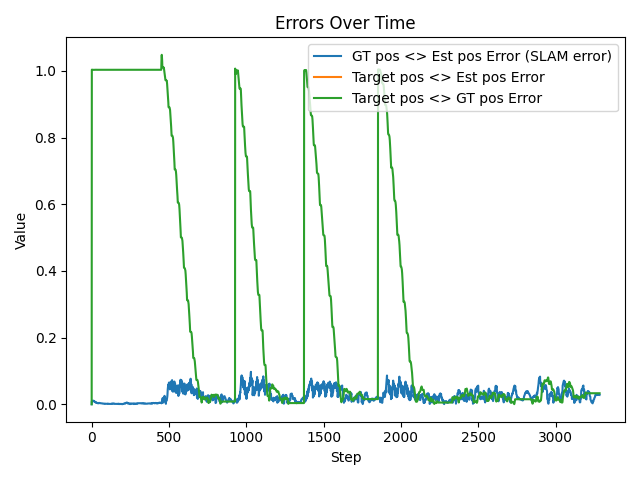
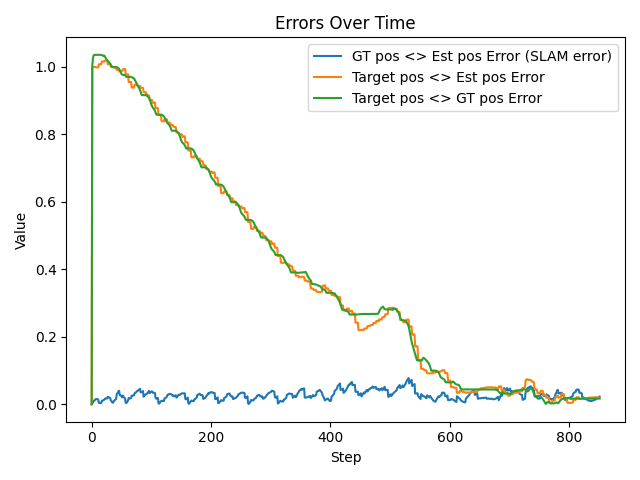
update step

diff --git a/source/ros2/isaac-ros/g1_standalone_v2_14dof_nav_heuristic_test_step.py b/source/ros2/isaac-ros/g1_standalone_v2_14dof_nav_heuristic_test_step.py
@@ -9,6 +9,7 @@
 from utils import *
 from scipy.spatial.transform import Rotation as R
 from scipy.spatial.transform import Slerp
+from tf_transformations import quaternion_matrix, translation_matrix, concatenate_matrices, inverse_matrix, quaternion_from_matrix
 from icecream import ic
 from isaacsim import SimulationApp
 
@@ -246,7 +247,7 @@ parser.add_argument("--rendering_dt", type=float, default=1/100, help="Rendering
 parser.add_argument("--policy-path", type=str, default="source/ros2/isaac-ros/assets/0820_f5/exported/policy.pt", help="Path to the policy file")
 parser.add_argument("--nav-policy-path", type=str, default="/workspace/isaaclab/source/ros2/isaac-ros/assets/weights/navigation/navigation_policy_0623.pt", help="Path to the policy file")
 parser.add_argument("--action-scale", type=float, default=0.5, help="Scale for the action commands")
-parser.add_argument("--period", type=float, default=0.8, help="Phase command period")
+parser.add_argument("--period", type=float, default=1.0, help="Phase command period")
 
 args = parser.parse_args()
 
@@ -589,9 +590,9 @@ heading_error_bs = np.zeros((1,1))
 midsole_diffs = []
 pelvis_diffs = []
 lidar_diffs = []
-
+joint_pelvis_trajs = []
 # =============================== Hyper-parameters ===============================
-free_iter = 2000
+free_iter = 400
 
 # heading_target = -math.pi
 LAST_ITER = 32000
@@ -639,12 +640,22 @@ SLOW_BOUND = 0.4
 MAX_LIN_VEL = 0.15
 MAX_ANG_VEL = 0.3
 NAV_HZ = 5
-ERROR_THRESHOLD = 0.04  # m
-NUM_AVG = 30
+ERROR_THRESHOLD = 0.02  # m
+NUM_AVG = 50
+
+single_step_duration = False
+single_step_iter = 0
+
+left_foot_moment = False
+right_foot_moment = True
+
 # =============================== Main iteration ===============================
 is_first_released = False
+its_end = False
+
 print_simtime = 0
 while simulation_app.is_running():
+
 
     simtime = sim_context.current_time
     if int(simtime) != print_simtime:
@@ -692,6 +703,8 @@ while simulation_app.is_running():
 
     # imu rate 50Hz
     if ( current_iter % 4 == 0 and is_first_released ) and est_pelvis_pos is not None and est_pelvis_quat is not None:
+        if single_step_duration:
+            single_step_iter += 1
         # Iterate over the target poses
         heading_target = target_pose_list[current_target_pose_idx][3].copy()
         target_pos_w = target_pose_list[current_target_pose_idx][:3].copy()
@@ -778,15 +791,82 @@ while simulation_app.is_running():
                 errors_per_pose[current_target_pose_idx][1].append(round(task_y_errors[-1][0], 4))
                 errors_per_pose[current_target_pose_idx][1].append((4000 - time_per_pose) * 0.02)  # time taken
                 time_per_pose = 0
-                stop_counter = 100
+                stop_counter = 50
                 # pos_command_bs = np.zeros((1,1))
                 # heading_error_bs = np.zeros((1,1))
+                its_end = True
 
-        if stop_counter > 0:
-            stop_counter -= 1
-            vel_command_b = np.zeros(3)
-            phase = 0.0
+        if current_iter % int(200/NAV_HZ) ==0:
+            vel_command_b[:2] = np.clip(np.sign(pos_command_b[:2]) * MAX_LIN_VEL * np.sqrt(np.abs(pos_command_b[:2] / SLOW_BOUND)), -MAX_LIN_VEL, MAX_LIN_VEL)
+            vel_command_b[2] = np.clip(np.sign(heading_error) * MAX_ANG_VEL * np.sqrt(np.abs(heading_error / SLOW_BOUND)), -MAX_ANG_VEL, MAX_ANG_VEL)
+
+        if pos_command_bs[-1, :].reshape((1,)) < 0.4 and single_step_duration == False:
+            single_step_duration = True
+            print("===== Single step phase start =====")
+            single_step_iter = 0
+
+
+        if prev_action is None:
+            prev_action = np.zeros(14)
+
+        if single_step_duration == True:
             sin_p, cos_p = 0.0, 1.0
+            vel_command_b = np.zeros(3)
+            def pos_quat_to_matrix(pos, quat):
+                """
+                quat : wxyz
+                """
+                t = translation_matrix([pos[0], pos[1], pos[2]])
+                q = [quat[1], quat[2], quat[3], quat[0]] # wxyz -> xyzw
+                r = quaternion_matrix(q) # xyzw
+                return concatenate_matrices(t, r)
+
+            base_mat_w = pos_quat_to_matrix(base_pos, base_quat)
+            base_mat_w_inv = inverse_matrix(base_mat_w)
+            l_mat_w = pos_quat_to_matrix(l_pos, l_quat)
+            r_mat_w = pos_quat_to_matrix(r_pos, r_quat)
+            l_mat_b = np.dot(base_mat_w_inv, l_mat_w)
+            r_mat_b = np.dot(base_mat_w_inv, r_mat_w)
+            l_trans = l_mat_b[:3, 3]
+            r_trans = r_mat_b[:3, 3]
+
+
+            if left_foot_moment:
+                step_start_iter = 40 # 0.8
+            elif right_foot_moment:
+                step_start_iter = 15 # 0.3
+
+            if single_step_iter >= step_start_iter:
+                if left_foot_moment:
+                    print("Left step")
+                elif right_foot_moment:
+                    print("Right step")
+                print(single_step_iter)
+                phase = ((single_step_iter * 0.02) % args.period) / args.period
+                print(phase)
+                print()
+                sin_p, cos_p = np.sin(2*np.pi*phase), np.cos(2*np.pi*phase)
+                vel_command_b[:2] = np.clip(np.sign(pos_command_b[:2]) * 0.2 * np.sqrt(np.abs(pos_command_b[:2] / SLOW_BOUND)), -0.2, 0.2)
+                vel_command_b[2] = np.clip(np.sign(heading_error) * MAX_ANG_VEL * np.sqrt(np.abs(heading_error / SLOW_BOUND)), -MAX_ANG_VEL, MAX_ANG_VEL)
+            if single_step_iter == step_start_iter + 74:
+                print("===== Single step phase end =====")
+                # if r_trans[0] - l_trans[0] > 0.1:
+                #     left_foot_moment = True
+                #     right_foot_moment = False
+                # else:
+                left_foot_moment = not left_foot_moment
+                right_foot_moment = not right_foot_moment
+                
+                # if left_foot_moment:
+                #     step_start_iter = 40
+                # elif right_foot_moment:
+                #     step_start_iter = 15
+                single_step_iter = step_start_iter - 25
+
+        if stop_counter >= 0 and its_end:
+            sin_p, cos_p = 0.0, 1.0
+            vel_command_b = np.zeros(3)
+            stop_counter -= 1
 
             pos_error = round(task_translation_errors[-1][0], 4)
             ori_error = round(task_orientation_errors[-1][0], 4)
@@ -794,37 +874,11 @@ while simulation_app.is_running():
             errors_per_pose[current_target_pose_idx][1][1] = ori_error
             errors_per_pose[current_target_pose_idx][1][2] = round(task_x_errors[-1][0], 4)
             errors_per_pose[current_target_pose_idx][1][3] = round(task_y_errors[-1][0], 4)
-            pos_command_bs = np.zeros((1,1))
-            heading_error_bs = np.zeros((1,1))
+        if stop_counter < 0:
+            sin_p, cos_p = 0.0, 1.0
+            vel_command_b = np.zeros(3)
+            current_iter = LAST_ITER   # break the loop after this
 
-        if time_per_pose <= 0 and stop_counter <= 0:
-            time_per_pose = 4000
-            current_target_pose_idx += 1
-            if current_target_pose_idx >= len(target_pose_list):
-                current_iter = LAST_ITER
-        time_per_pose -= 1
-
-        # Navigation
-        if current_iter % int(200/NAV_HZ) ==0:
-            # vel_command_b[:2] = np.clip(np.sign(pos_command_b[:2]) * MAX_LIN_VEL * np.sqrt(np.abs(pos_command_b[:2] / SLOW_BOUND)), -MAX_LIN_VEL, MAX_LIN_VEL)
-            # X > 0
-            if pos_command_b[0] >= 0.:
-                vel_command_b[0] = np.clip(MAX_LIN_VEL * np.sqrt(np.abs(pos_command_b[0] / SLOW_BOUND)), 0.0, MAX_LIN_VEL)
-            # X < 0
-            if pos_command_b[0] < 0.:
-                vel_command_b[0] = np.clip(-0.2 * np.sqrt(np.abs(pos_command_b[0] / SLOW_BOUND)), -0.2, 0.0)
-            # Y > 0
-            if pos_command_b[1] >= 0.:
-                vel_command_b[1] = np.clip(MAX_LIN_VEL * np.sqrt(np.abs(pos_command_b[1] / SLOW_BOUND)), 0.0, MAX_LIN_VEL)
-            # Y < 0
-            if pos_command_b[1] < 0.:
-                vel_command_b[1] = np.clip(-MAX_LIN_VEL * np.sqrt(np.abs(pos_command_b[1] / SLOW_BOUND)), -MAX_LIN_VEL, 0.0)
-            
-            vel_command_b[2] = np.clip(np.sign(heading_error) * MAX_ANG_VEL * np.sqrt(np.abs(heading_error / SLOW_BOUND)), -MAX_ANG_VEL, MAX_ANG_VEL)
-
-        if prev_action is None:
-            prev_action = np.zeros(14)
-        
         obs = np.concatenate([
             base_ang_vel_b,
             gravity_ori,
@@ -847,10 +901,22 @@ while simulation_app.is_running():
 
         prev_action = action.copy()
 
+        # if sin_p == 0. and cos_p == 1. and np.linalg.norm(linear_velocities) < 0.05:
+        #     print("stop pose logged")
+        #     joint_positions = av.get_joint_positions()
+
+        #     joint_pelvis_trajs.append({
+        #         "joint_pos" : joint_positions,
+        #         "base_quat" : base_quat,
+        #         "base_pos" : base_pos
+        #     })
+
 
     # joint position target is set synchronized with physics dt (200Hz)
     av.set_joint_position_targets(joint_targets)
     av.set_joint_velocity_targets(np.zeros(29))
+
+
 
     # imu rate 200Hz
     imu_pub_node.publish_imu(imu_sensor.get_current_frame(read_gravity=True), simtime=simtime)
@@ -972,6 +1038,8 @@ while simulation_app.is_running():
         plt.tight_layout()
         plt.savefig(os.path.join(log_dir, "slam_errors_of_frames.png"))
         plt.close()
+
+        np.save("source/ros2/isaac-ros/g1_data/exp_log/stop_trajs.npy", np.array(joint_pelvis_trajs))
 
 
         simulation_app.close()

diff --git a/source/ros2/isaac-ros/g1_standalone_v2_14dof.py b/source/ros2/isaac-ros/g1_standalone_v2_14dof.py
@@ -526,7 +526,8 @@ free_iter = 2000
 
 heading_target = 0.0
 # heading_target = -math.pi
-vel_command_b[0] = 0.1
+# vel_command_b[0] = 0.1
+vel_command_b[1] = -0.1
 # stop_iter = 4000
 # LAST_ITER = 5000 + 2000
 LAST_ITER = 5000
@@ -700,6 +701,8 @@ while simulation_app.is_running():
         )
         print("lidar lin jitter max:", np.round(np.max(lidar_lin_jitters, axis=0), 4))
         print("lidar ang jitter max:", np.round(np.max(lidar_ang_jitters, axis=0), 4))
+
+        print("Distance traveled:", np.linalg.norm(base_pos[:2]))
         simulation_app.close()
                 
         for node in nodes:
